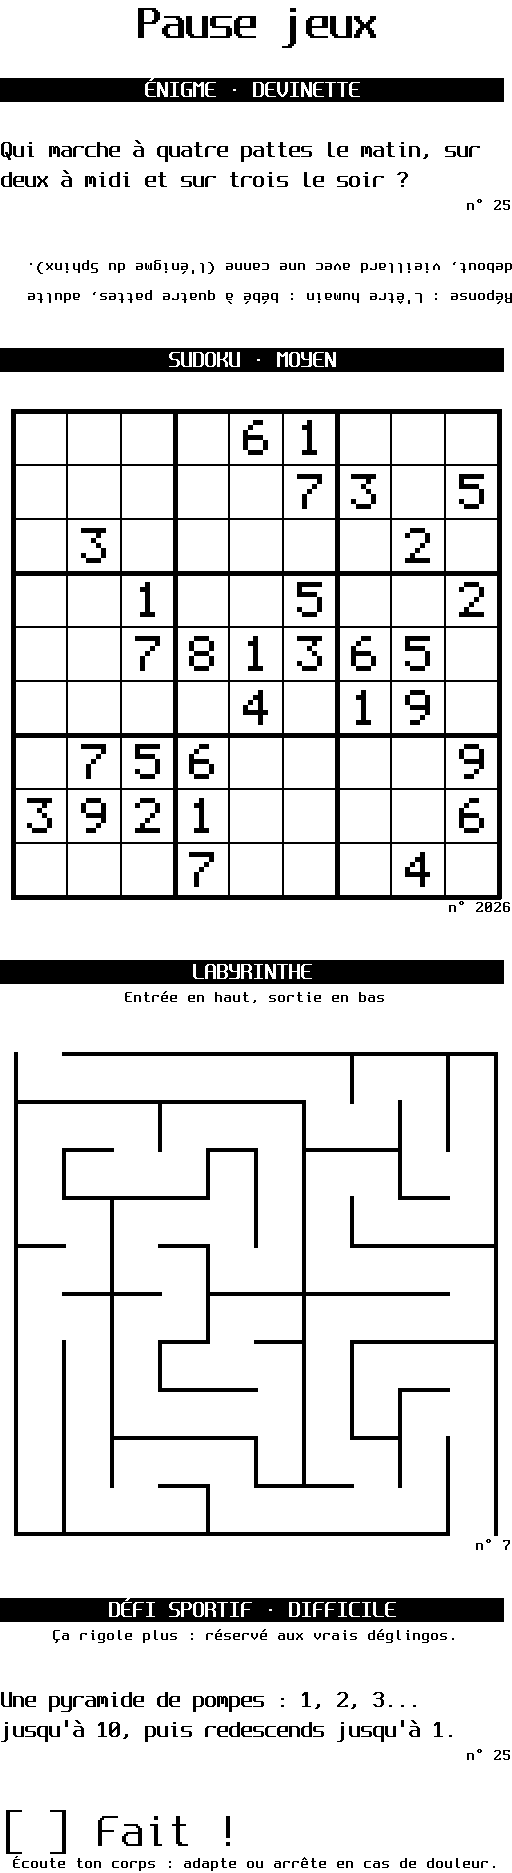
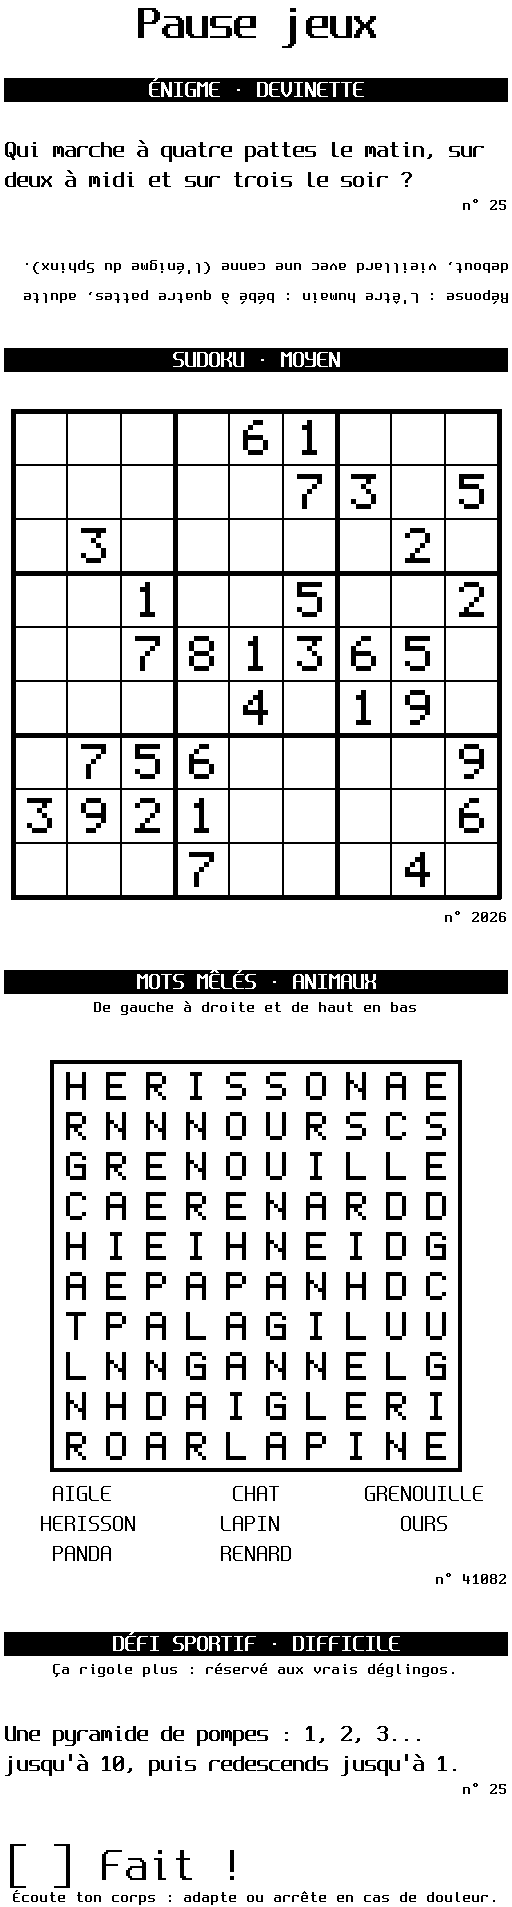
Mots mêlés dans le README, le site et le ticket de démo
- Ticket « Pause jeux » : une grille de mots mêlés à la place du labyrinthe
- Mentions des mots mêlés dans les présentations et les légendes
- Pas de glitch dans les illustrations générées

diff --git a/docs/index.html b/docs/index.html
@@ -4,7 +4,7 @@
 <meta charset="utf-8">
 <meta name="viewport" content="width=device-width, initial-scale=1">
 <title>Printr — des petits tickets qui font du bien</title>
-<meta name="description" content="Printr transforme une imprimante à tickets Epson TM-T88V en gadget familial : météo, horoscope, sudoku, énigmes, actualités, petits mots avec photo… composés et planifiés depuis le téléphone.">
+<meta name="description" content="Printr transforme une imprimante à tickets Epson TM-T88V en gadget familial : météo, horoscope, sudoku, mots mêlés, énigmes, actualités, petits mots avec photo… composés et planifiés depuis le téléphone.">
 <meta property="og:title" content="Printr — des petits tickets qui font du bien">
 <meta property="og:description" content="Une imprimante à tickets, 30 blocs, une appli web familiale et un planificateur. En Rust, sur un Raspberry Pi.">
 <meta property="og:image" content="https://xninety9.github.io/Printr/preview.png">
@@ -264,9 +264,9 @@
       <figure><div class="ticket"><img src="tickets/matin.png" alt="Ticket du matin : date, saint, météo, lune, citation, liste à faire" loading="lazy"></div>
         <figcaption><strong class="fr">Le brief du matin</strong><strong class="en">The morning brief</strong>
           <span class="fr">Météo, lune, citation, choses à faire</span><span class="en">Weather, moon, quote, to-dos</span></figcaption></figure>
-      <figure><div class="ticket"><img src="tickets/jeux.png" alt="Ticket de jeux : énigme, sudoku, labyrinthe, défi sportif" loading="lazy"></div>
+      <figure><div class="ticket"><img src="tickets/jeux.png" alt="Ticket de jeux : énigme, sudoku, mots mêlés, défi sportif" loading="lazy"></div>
         <figcaption><strong class="fr">La pause jeux</strong><strong class="en">Game break</strong>
-          <span class="fr">La réponse de l'énigme est imprimée à l'envers</span><span class="en">The riddle's answer prints upside down</span></figcaption></figure>
+          <span class="fr">Sudoku, mots mêlés, et la réponse de l'énigme à l'envers</span><span class="en">Sudoku, word search, and the riddle's answer upside down</span></figcaption></figure>
       <figure><div class="ticket"><img src="tickets/petit-mot.png" alt="Petit mot : cœurs, photo d'un café, message" loading="lazy"></div>
         <figcaption><strong class="fr">Le petit mot</strong><strong class="en">A little note</strong>
           <span class="fr">Une photo envoyée depuis le téléphone</span><span class="en">A photo sent from a phone</span></figcaption></figure>

diff --git a/README.md b/README.md
@@ -22,22 +22,22 @@
 </p>
 
 Printr transforme une imprimante à tickets **Epson TM-T88V** en gadget familial. On compose un
-ticket à partir de **30 blocs** (météo, horoscope, sudoku, énigmes, actualités, photos…), on
-l'imprime depuis son téléphone, on le **planifie** pour 7 h 30 en semaine, ou on envoie un
-**petit mot avec une photo** à ceux qui sont restés à la maison. Un seul binaire Rust, sur un
-Raspberry Pi, qui parle ESC/POS directement à l'imprimante.
+ticket à partir de **30 blocs** (météo, horoscope, sudoku, mots mêlés, énigmes, actualités,
+photos…), on l'imprime depuis son téléphone, on le **planifie** pour 7 h 30 en semaine, ou on
+envoie un **petit mot avec une photo** à ceux qui sont restés à la maison. Un seul binaire Rust,
+sur un Raspberry Pi, qui parle ESC/POS directement à l'imprimante.
 
 <p align="center">
   <img src="docs/tickets/matin.png" alt="Ticket du matin" width="240">
   &nbsp;
-  <img src="docs/tickets/jeux.png" alt="Ticket de jeux, avec la réponse de l'énigme imprimée à l'envers" width="240">
+  <img src="docs/tickets/jeux.png" alt="Ticket de jeux : énigme avec sa réponse imprimée à l'envers, sudoku, mots mêlés, défi sportif" width="240">
   &nbsp;
   <img src="docs/tickets/petit-mot.png" alt="Petit mot avec une photo" width="240">
 </p>
 
 - **30 blocs** : météo, lune, saint du jour, jours fériés, horoscope (sérieux, farfelu, vachard
-  ou franchement insultant), mot du jour, sudoku, labyrinthe, énigmes à réponse imprimée à
-  l'envers, défi sportif, actualités par flux RSS, QR codes, pictogrammes, photos…
+  ou franchement insultant), mot du jour, sudoku, mots mêlés, labyrinthe, énigmes à réponse
+  imprimée à l'envers, défi sportif, actualités par flux RSS, QR codes, pictogrammes, photos…
 - **Une appli web pour la famille** : comptes, tickets enregistrés et partagés, aperçu en direct,
   planification au format 24 h, historique.
 - **Sobre** : presque tout est calculé localement ou vient d'API gratuites et sans clé. Claude
